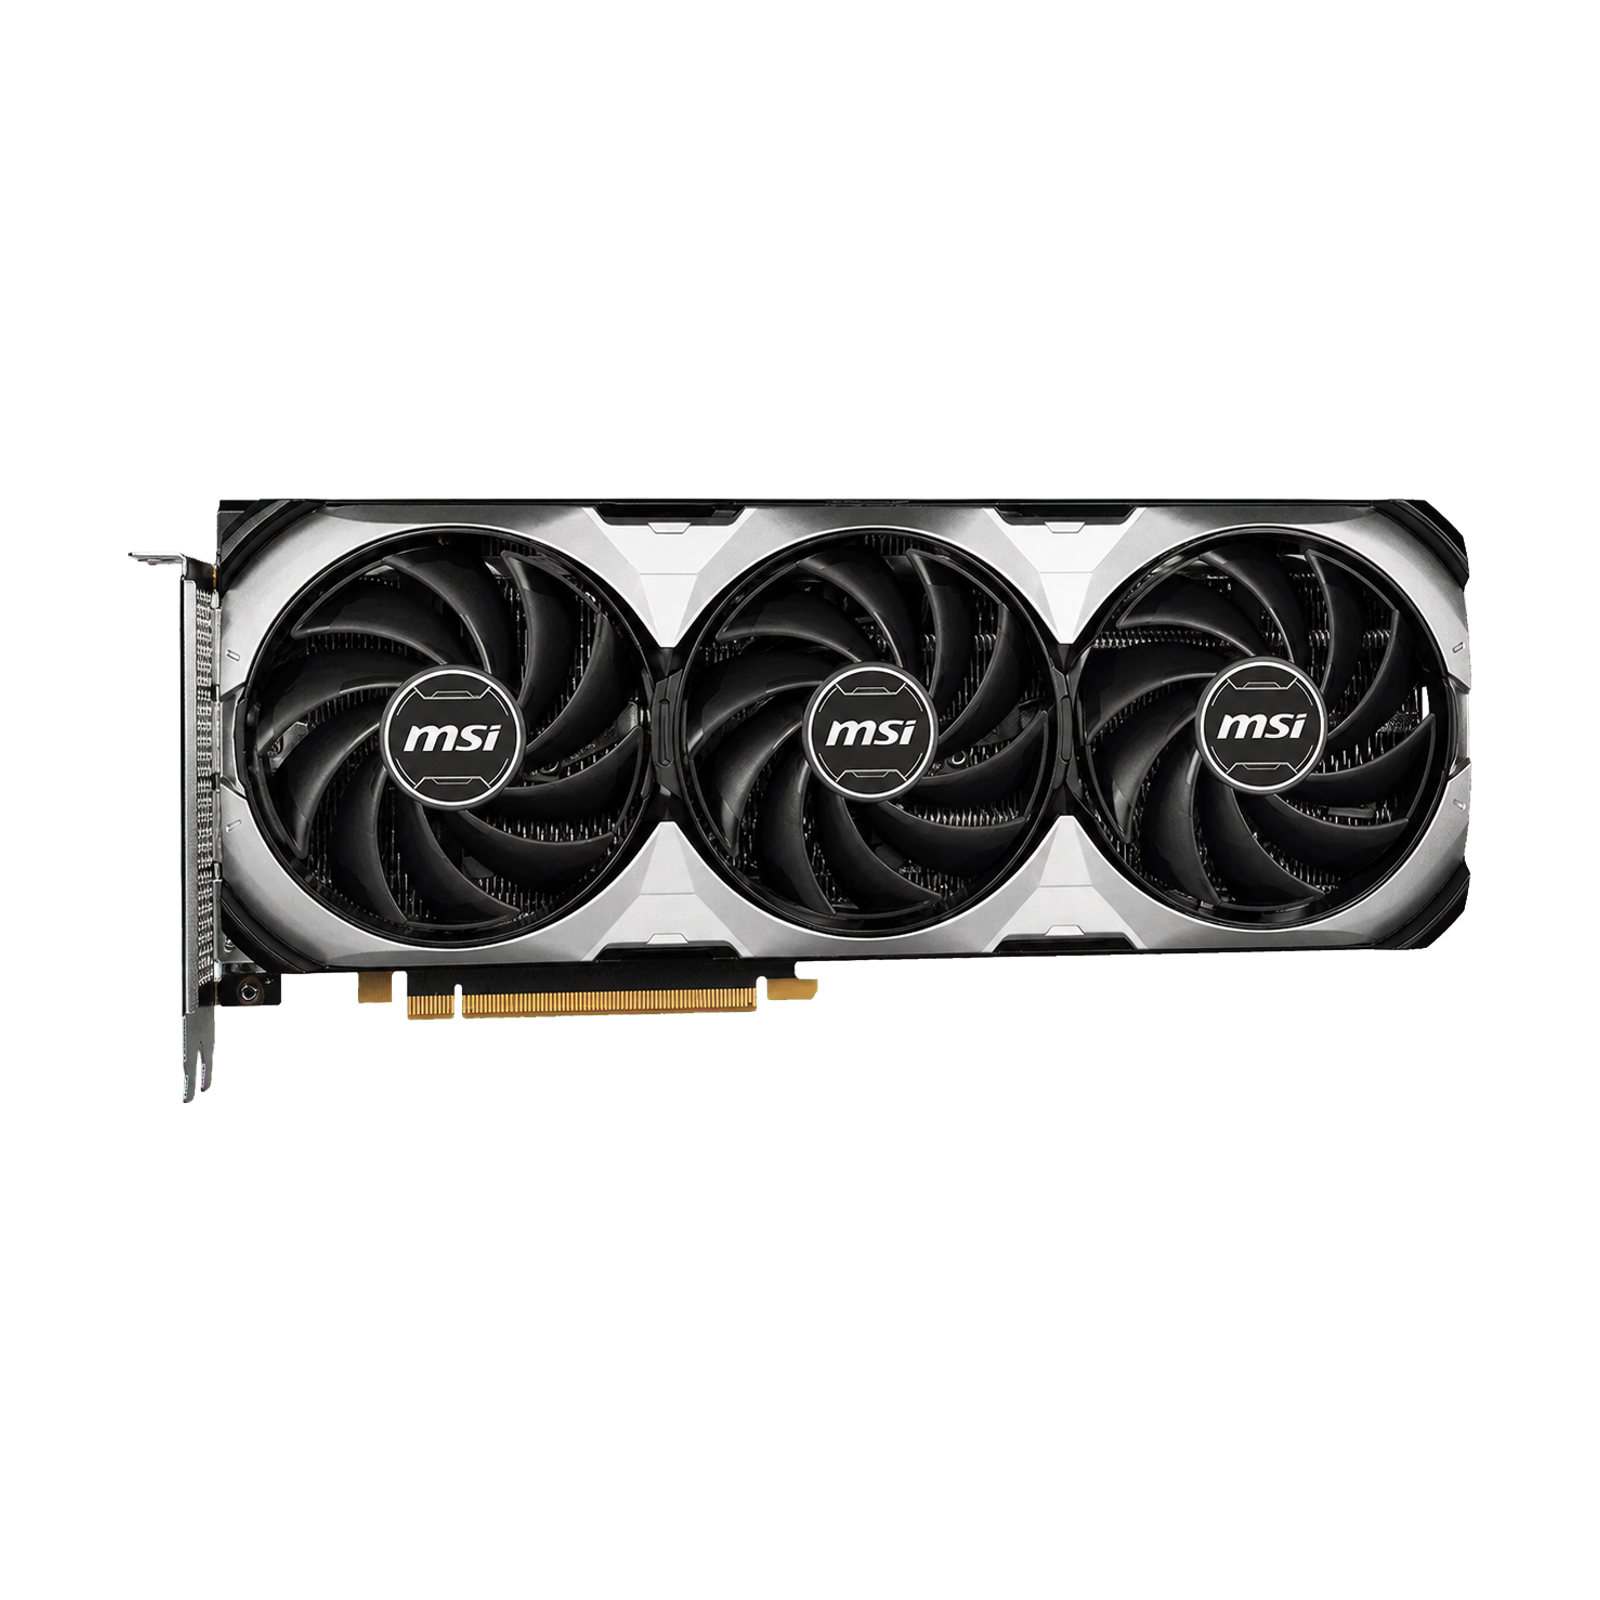
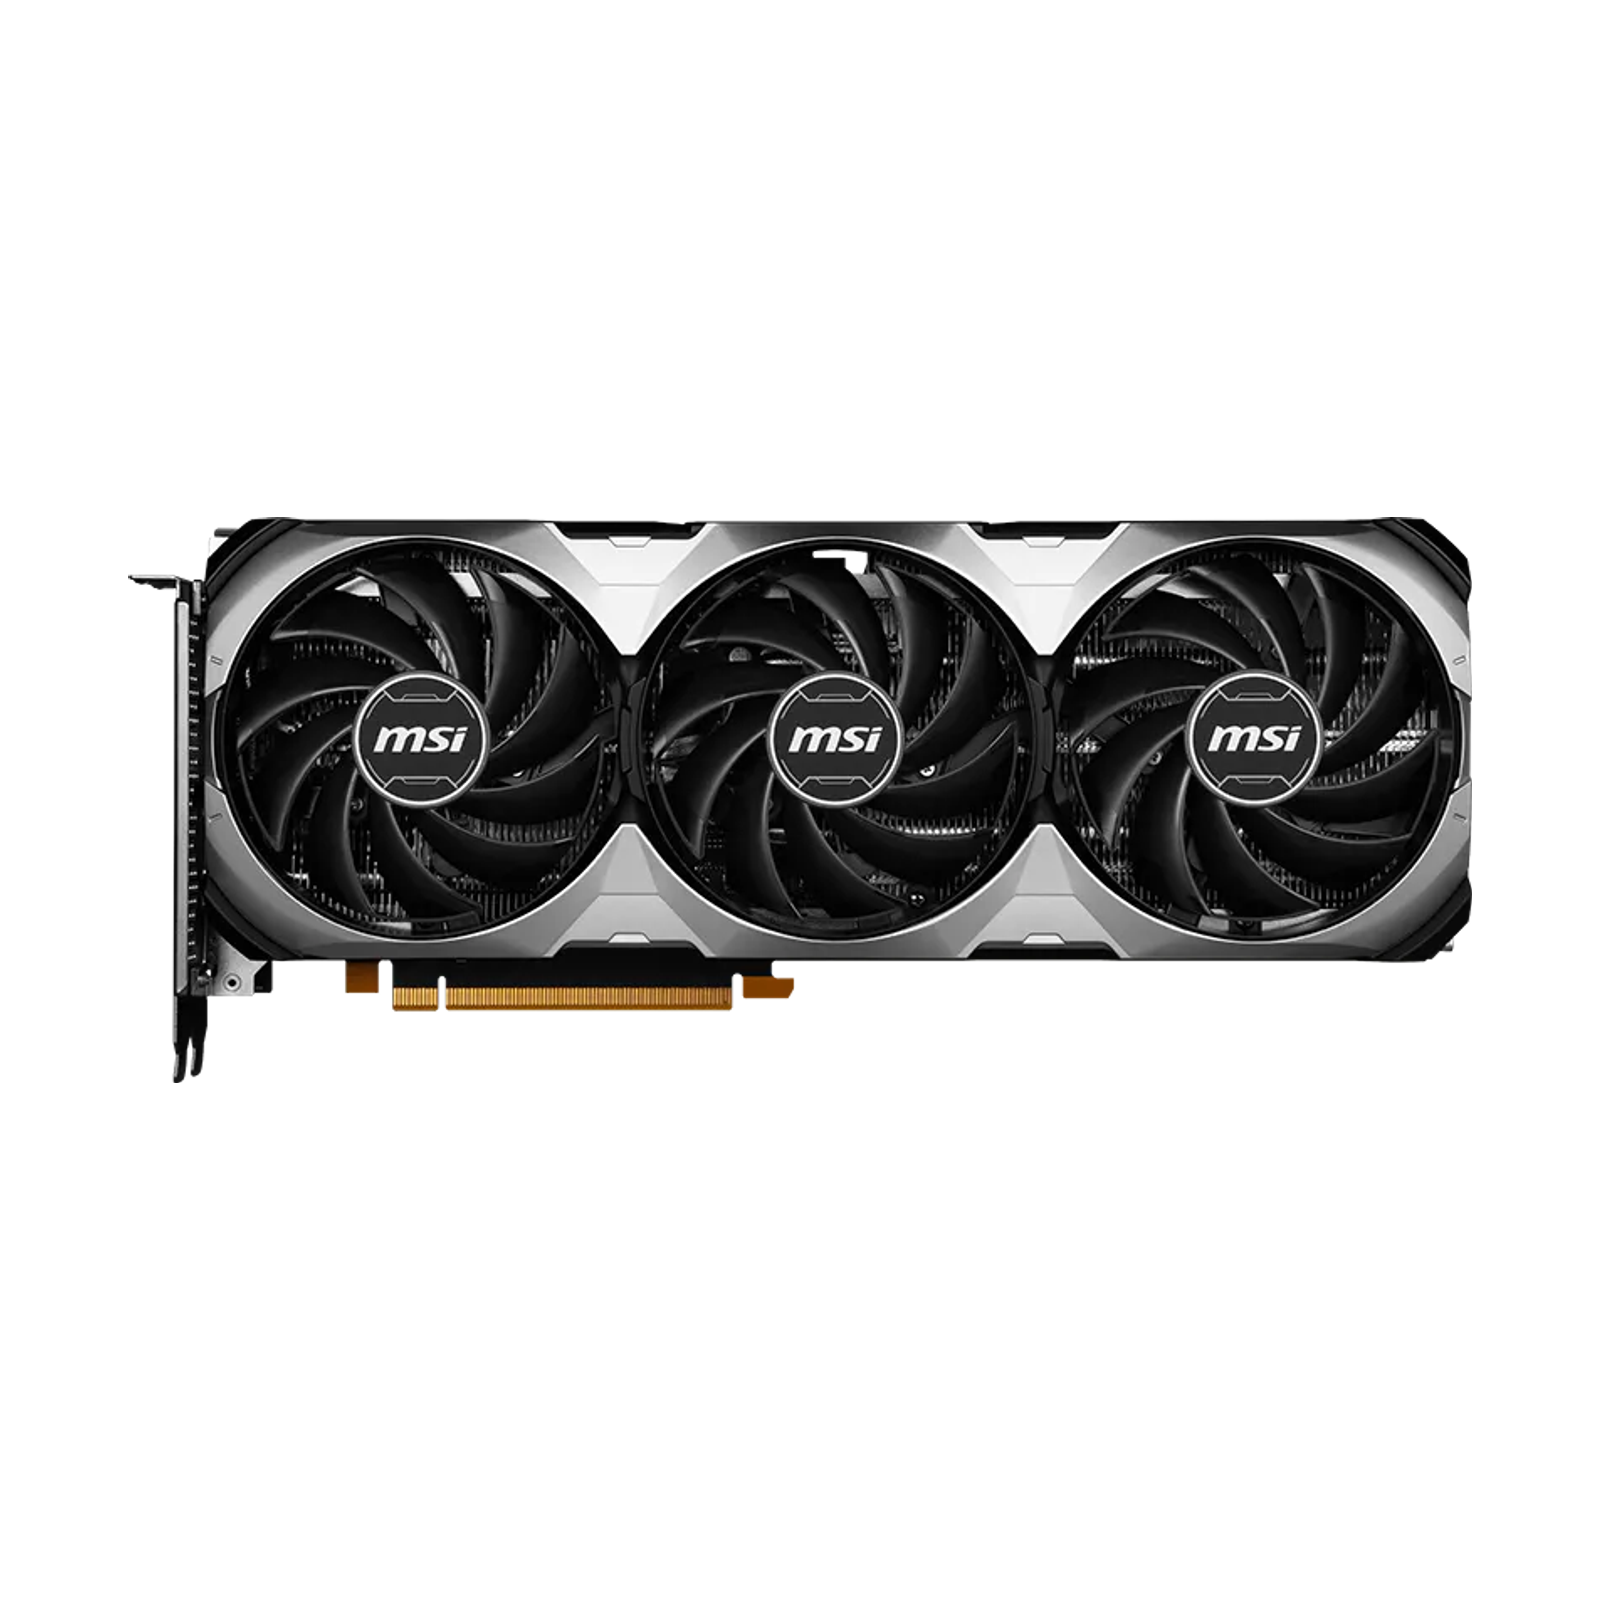
fix: use exact official rtx 4060 cutout

Changed region(s): [[0.0625, 0.3125, 0.9375, 0.6875]]

diff --git a/public/products/SOURCES.md b/public/products/SOURCES.md
@@ -9,7 +9,7 @@ Las páginas, créditos y archivos de origen se conservan a continuación.
 - `geforce-rtx-5070-ti-16gb` — [MSI](https://www.msi.com/Graphics-Card/GeForce-RTX-5070-Ti-16G-VENTUS-3X-OC/Overview) — [archivo original](https://storage-asset.msi.com/global/picture/image/feature/vga/NVIDIA/new-gen/GB203-300-VENTUS-3X-OC/kv/msi-70ventus-ti-3x-oc.png)
 - `geforce-rtx-5070-12gb` — [NVIDIA](https://marketplace.nvidia.com/en-us/consumer/graphics-cards/geforce-rtx-5070-founders-edition/) — [archivo original](https://assets.nvidia.partners/images/png/RTX5070-3QTR-Back-Left.png)
 - `radeon-rx-9070-xt-16gb` — [ASUS](https://www.asus.com/br/motherboards-components/graphics-cards/tuf-gaming/tuf-rx9070xt-o16g-gaming/) — [archivo original](https://dlcdnwebimgs.asus.com/files/media/56d6fef8-8294-4b6b-b1e5-50ae6c6e7584/v1/img/kv/pd.png)
-- `geforce-rtx-4060-8gb` — [MSI](https://www.msi.com/Graphics-Card/GeForce-RTX-4060-VENTUS-3X-8G/Gallery) — [archivo original](https://storage-asset.msi.com/global/picture/product/product_168991826759ba9e90a3245adf6d1d6de1fc389b92.webp)
+- `geforce-rtx-4060-8gb` — [MSI](https://www.msi.com/Graphics-Card/GeForce-RTX-4060-VENTUS-3X-8G/Gallery) — [archivo original](https://storage-asset.msi.com/global/picture/product/product_1689918265abde816554e825065034ba0b77b50c2c.webp)
 - `arc-b580-12gb` — [Intel](https://newsroom.intel.com/client-computing/intel-launches-arc-b-series-graphics-cards) — [archivo original](https://newsroom.intel.com/wp-content/uploads/2024/12/newsroom-intel-arc-b580-2.jpg)
 - `ryzen-7-9800x3d` — [AMD](https://www.amd.com/en/products/processors/desktops/ryzen/9000-series/amd-ryzen-7-9800x3d.html) — [archivo original](https://www.amd.com/content/dam/amd/en/images/products/processors/ryzen/2900400-ryzen-7-9800x3d.jpg)
 - `ryzen-7-7800x3d` — [AMD](https://www.amd.com/en/products/processors/desktops/ryzen/7000-series/amd-ryzen-7-7800x3d.html) — [archivo original](https://www.amd.com/content/dam/amd/en/images/products/processors/ryzen/2505503-ryzen-7-7800x3d-og.jpg)
